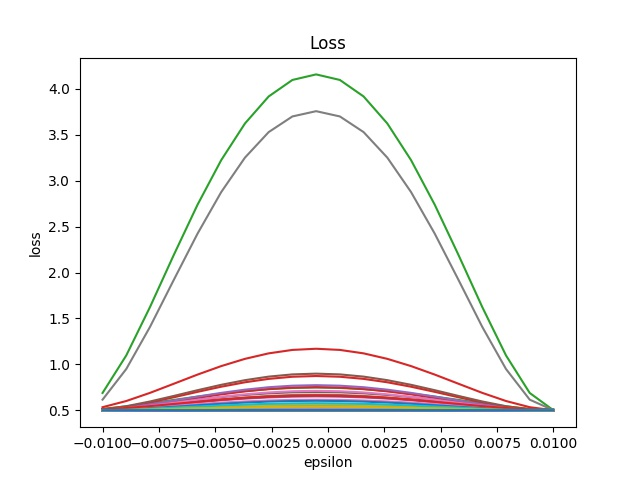
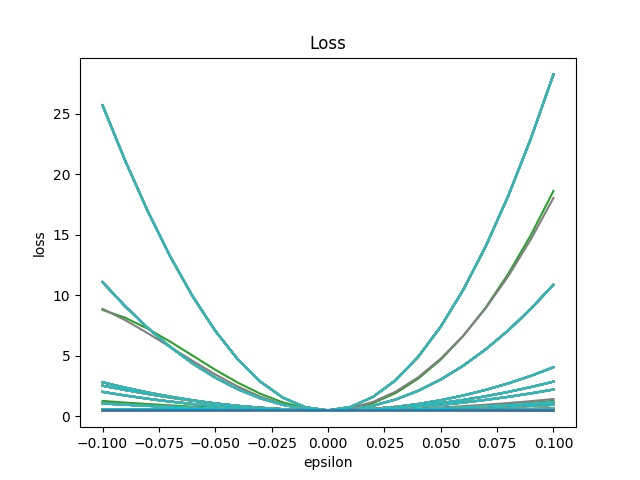
dfkj

diff --git a/hw1/1-2/1-2-bonus/util.py b/hw1/1-2/1-2-bonus/util.py
@@ -106,10 +106,10 @@ class Datamanager():
                     loss=[]
                     print('\rprocessing...parameters {}'.format(c),end='')
                     for e in epsilon:
-                        tmp=state.copy()
-                        tmp[i][j]=state[i][j]+e
-                        dnn.load_state_dict(tmp)
+                        state[i][j]+=e
+                        dnn.load_state_dict(state)
                         loss.append(self.val(dnn,self.data['train'],verbose=False))
+                        state[i][j]-=e
                     output.append(torch.FloatTensor(loss).view(1,-1))
                     c+=1
                 else:
@@ -117,10 +117,10 @@ class Datamanager():
                         loss=[]
                         print('\rprocessing...parameters {}'.format(c),end='')
                         for e in epsilon:
-                            tmp=state.copy()
-                            tmp[i][j,k]=state[i][j,k]+e
-                            dnn.load_state_dict(tmp)
+                            state[i][j]+=e
+                            dnn.load_state_dict(state)
                             loss.append(self.val(dnn,self.data['train'],verbose=False))
+                            state[i][j]-=e
                         output.append(torch.FloatTensor(loss).view(1,-1))
                         c+=1
         print()

diff --git a/hw1/1-2/1-2-bonus/plot2.py b/hw1/1-2/1-2-bonus/plot2.py
@@ -20,7 +20,7 @@ color=['C0', 'C1', 'C2', 'C3', 'C4', 'C5', 'C6', 'C7', 'C8', 'C9']
 dm.get_data('train',batch_size)
 dnn= DNN().cuda()
 dnn.load(args.model)
-epsilon=torch.linspace(-0.01,0.01,20)
+epsilon=torch.linspace(-0.1,0.1,21)
 y=dm.small_range_loss(dnn,epsilon)
 print(y)
 
